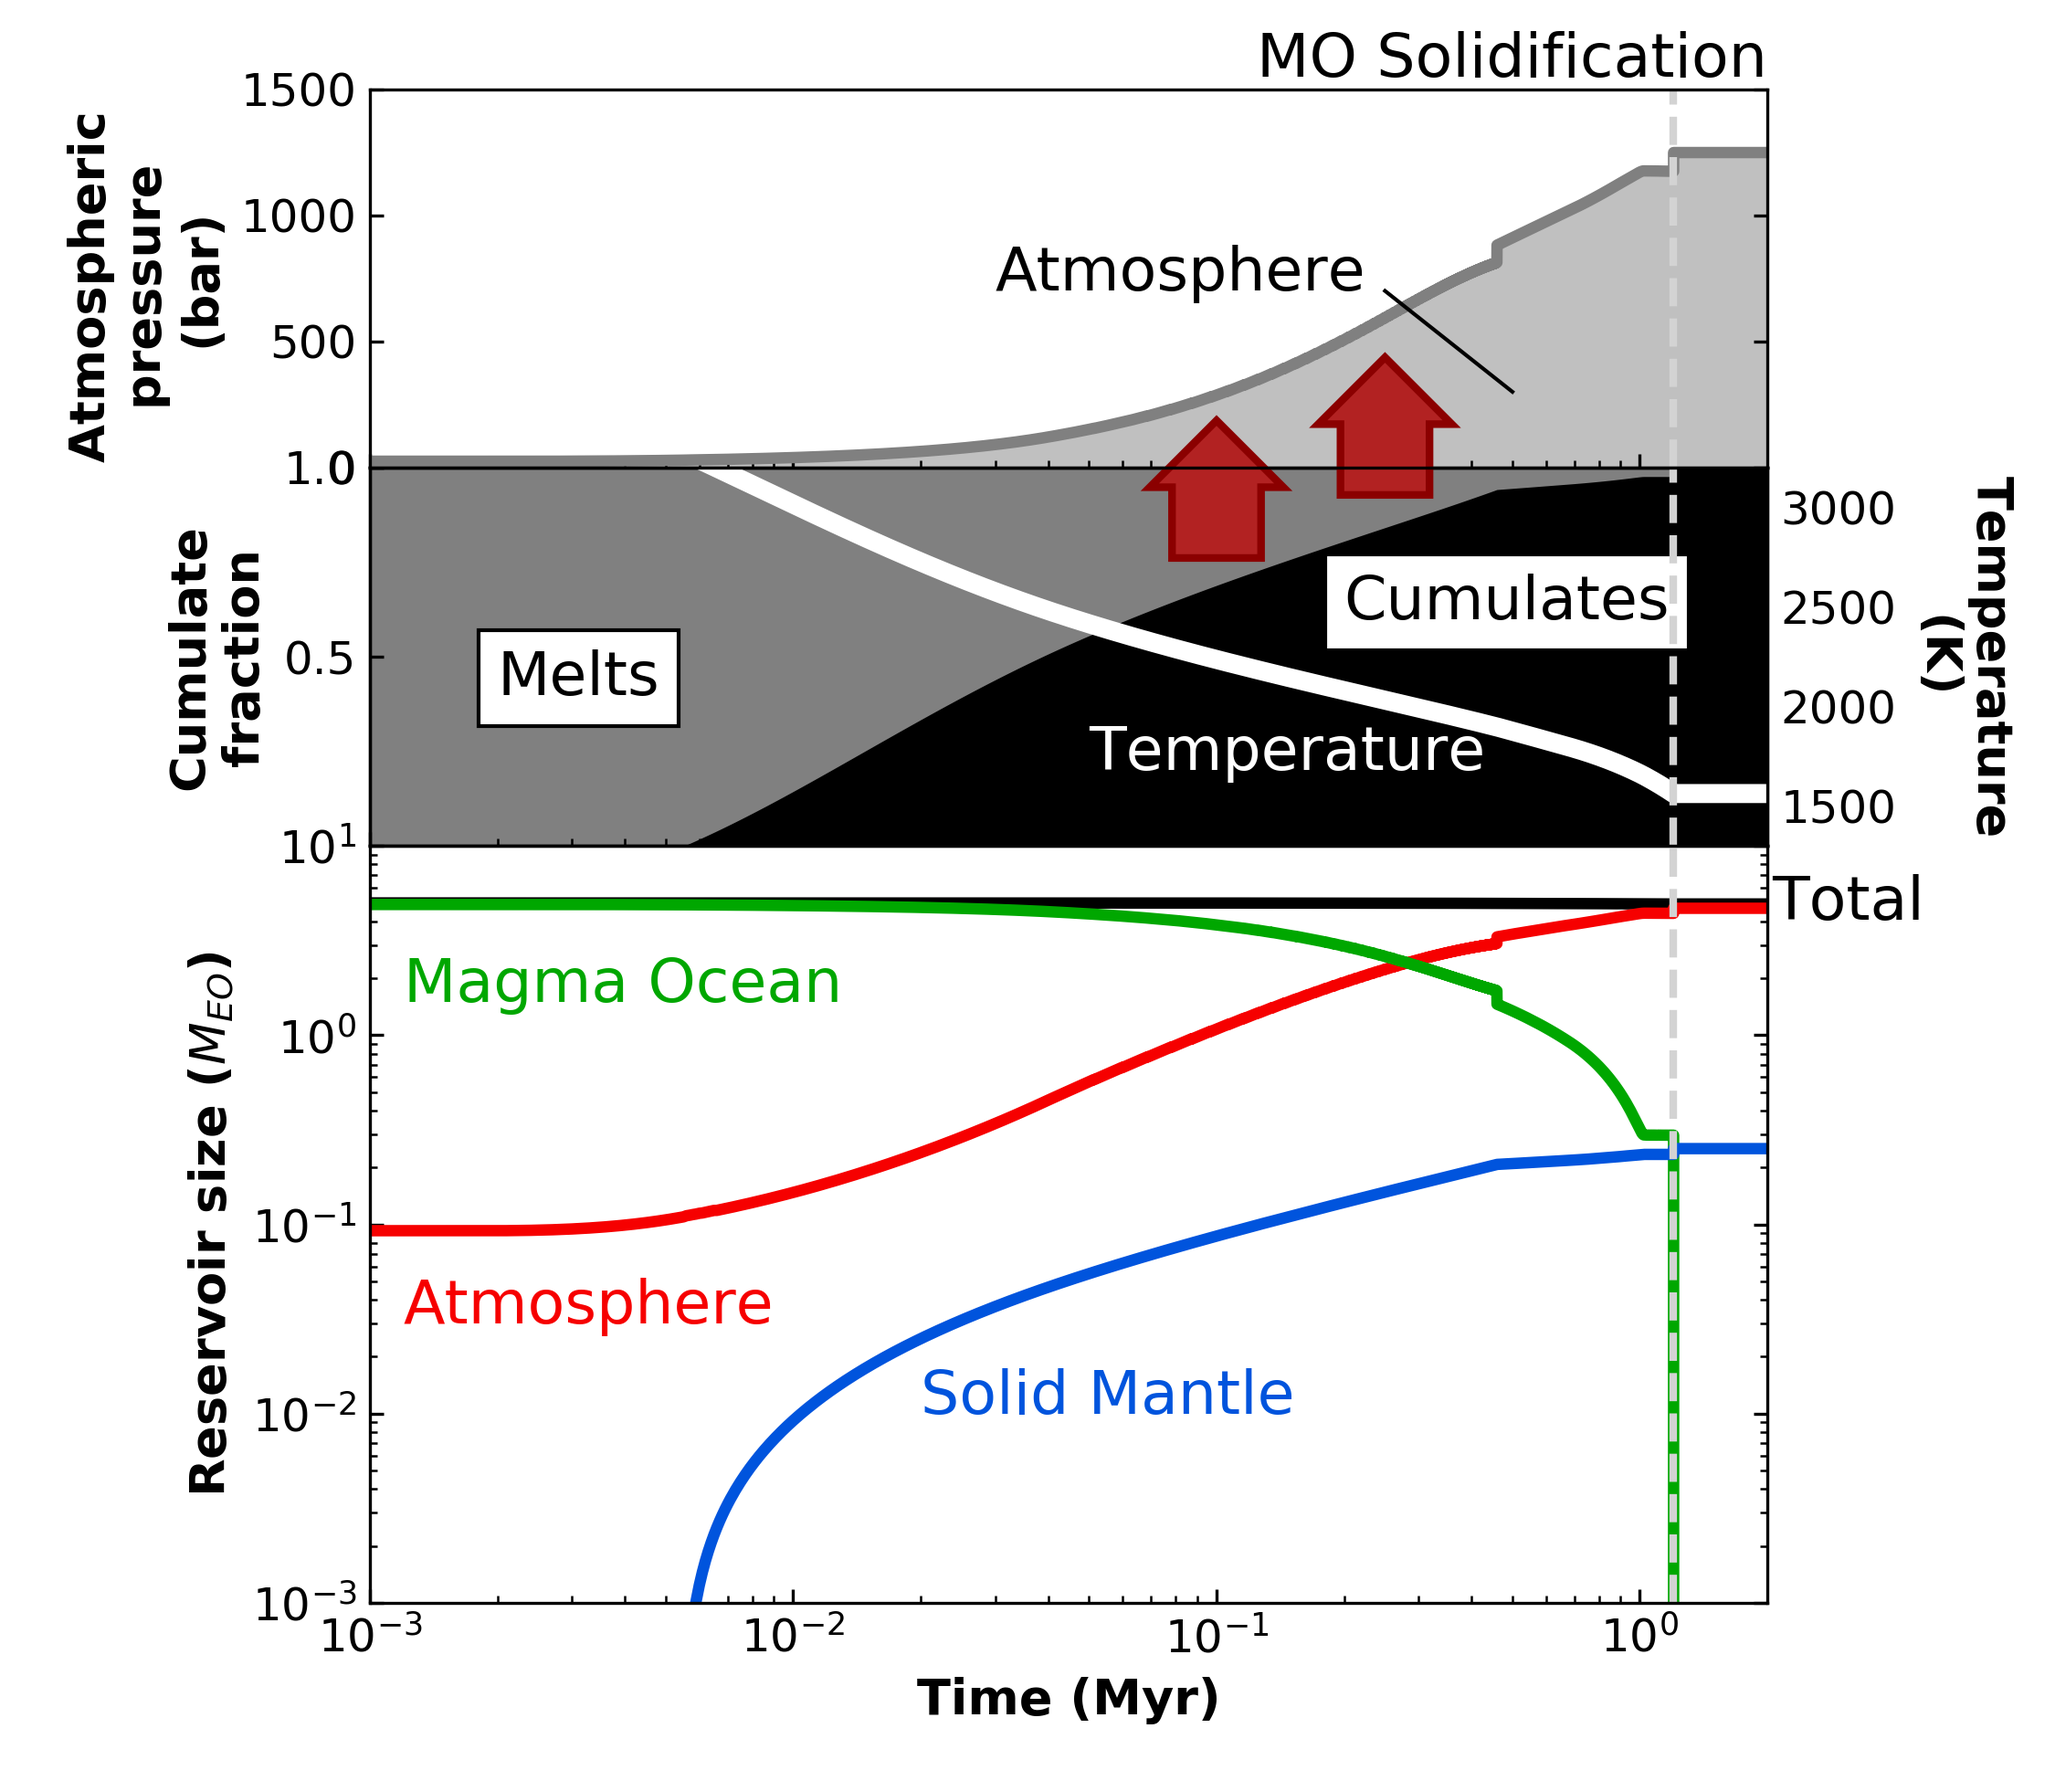
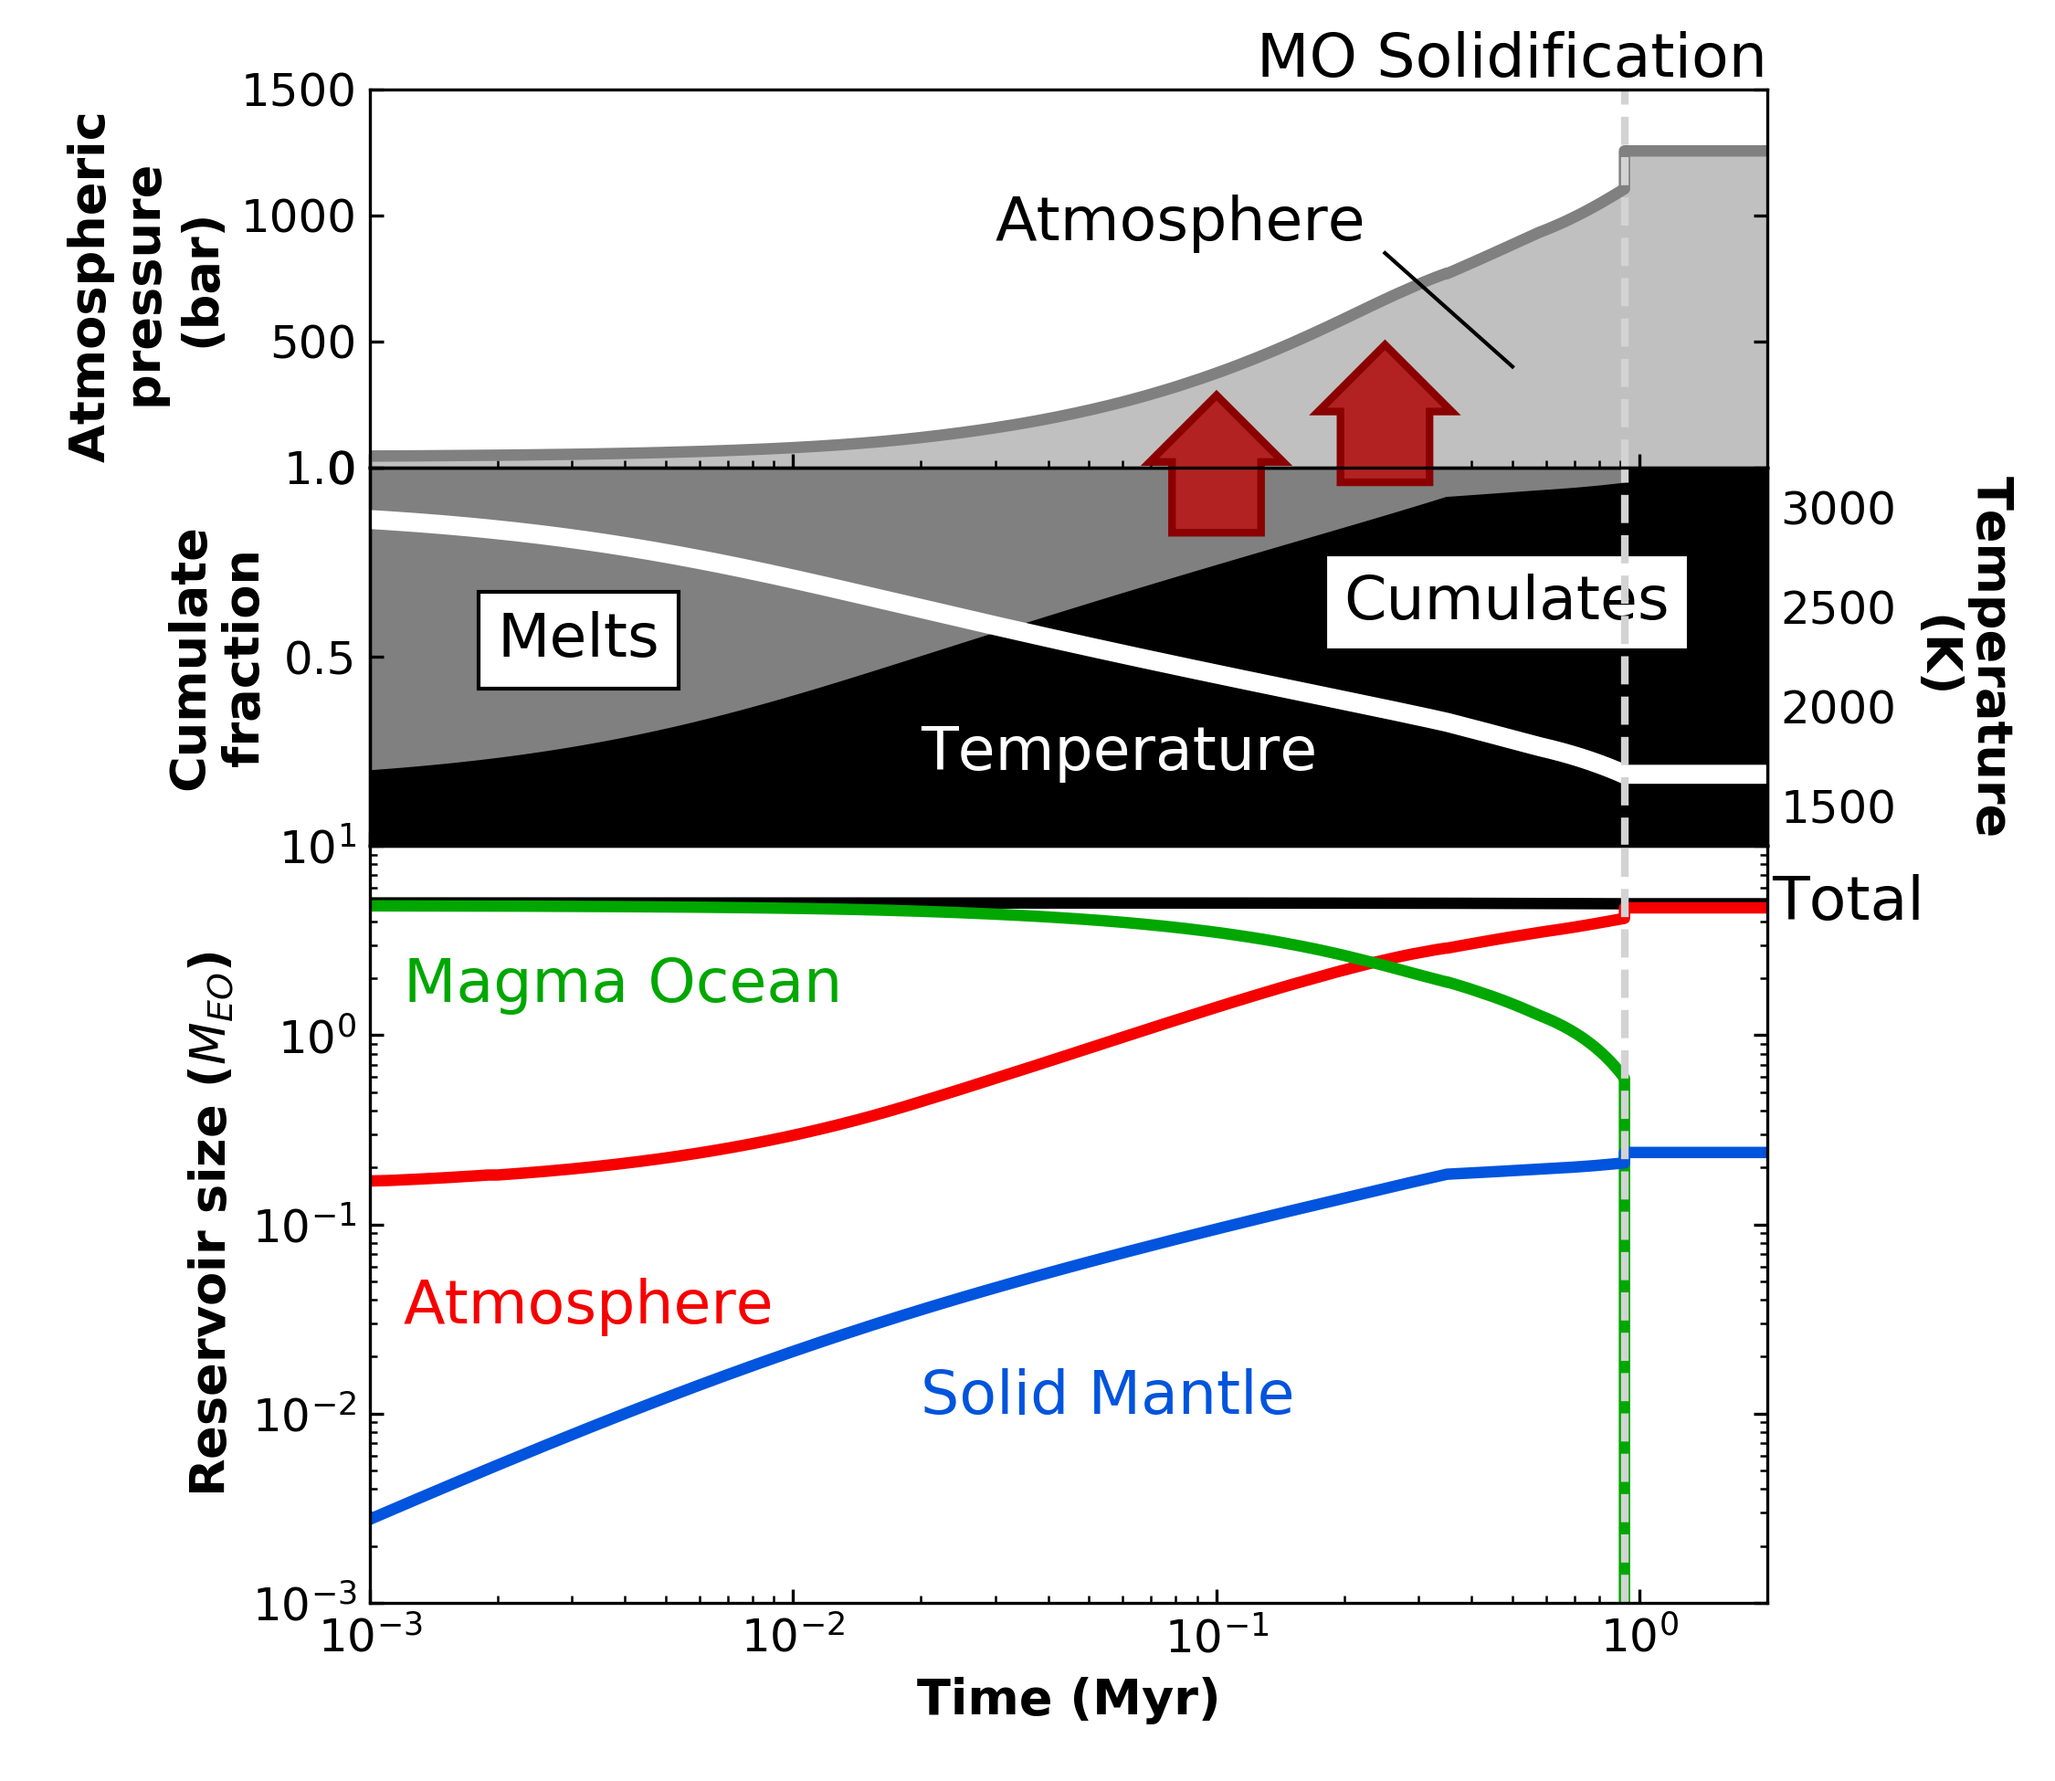
fixed bug for starting with a not fully molten mantle

diff --git a/src/magmoc.c b/src/magmoc.c
@@ -492,21 +492,30 @@ void ReadOptionsMagmOc(BODY *body,CONTROL *control,FILES *files,OPTIONS *options
 
 // Initilaization of variables
 void InitializeBodyMagmOc(BODY *body,CONTROL *control,UPDATE *update,int iBody,int iModule) {
+  double dSolidRadiusLocalLow,dSolidRadiusLocalHigh;
+
   // primary variables: HARD CODED INITIAL VALUES
   body[iBody].dPotTemp         = body[iBody].dSurfTemp; // initial potential temp = initial surface temp
-  body[iBody].dSolidRadius     = body[iBody].dRadius * RADCOREEARTH / REARTH; // initial solid. rad. = core radius
+  body[iBody].dCoreRadius      = body[iBody].dRadius * RADCOREEARTH / REARTH; // same relative core radius as Earth
   body[iBody].dWaterMassMOAtm  = body[iBody].dWaterMassAtm; // initial water mass in MO&Atm is equal to inital Water mass in atmosphere
   body[iBody].dWaterMassSol    = 0; // initial water mass in solid = 0
   body[iBody].dOxygenMassMOAtm = 0; // initial oxygen mass in MO&Atm = 0
   body[iBody].dOxygenMassSol   = 0; // initial oxygen mass in solid = 0
+  body[iBody].dGravAccelSurf   = BIGG * body[iBody].dMass / pow(body[iBody].dRadius,2);
+
+  dSolidRadiusLocalLow  = body[iBody].dRadius - ( (BLOWPRESSURE-body[iBody].dPotTemp)  / (body[iBody].dGravAccelSurf*(body[iBody].dPotTemp*THERMALEXPANCOEFF/SILICATEHEATCAP - ALOWPRESSURE*body[iBody].dManMeltDensity)));
+  dSolidRadiusLocalHigh = body[iBody].dRadius - ( (BHIGHPRESSURE-body[iBody].dPotTemp) / (body[iBody].dGravAccelSurf*(body[iBody].dPotTemp*THERMALEXPANCOEFF/SILICATEHEATCAP - AHIGHPRESSURE*body[iBody].dManMeltDensity)));
+  body[iBody].dSolidRadius = fmin(dSolidRadiusLocalLow,dSolidRadiusLocalHigh);
+
+  if (body[iBody].dSolidRadius < body[iBody].dCoreRadius) {
+    body[iBody].dSolidRadius = body[iBody].dCoreRadius;
+  }
 
   // other variables
   double dTransPressSol = 5.19964e9; // pressure at which to swith from low to high pressure treatment of solidus (Hirschmann, 2000) in Pa
-  body[iBody].dCoreRadius      = body[iBody].dRadius * RADCOREEARTH / REARTH; // same relative core radius as Earth
   body[iBody].dPrefactorA      = AHIGHPRESSURE;
   body[iBody].dPrefactorB      = BHIGHPRESSURE;
   body[iBody].dAlbedo          = ALBEDOWATERATMOS;
-  body[iBody].dGravAccelSurf   = BIGG * body[iBody].dMass / pow(body[iBody].dRadius,2);
   body[iBody].dFracFe2O3Man    = 0;
   body[iBody].dPressOxygenAtm  = 0;
   body[iBody].dTransDepthSol   = body[iBody].dRadius - pow((pow(body[iBody].dRadius,2) - 2*body[iBody].dRadius*dTransPressSol/(body[iBody].dManMeltDensity*body[iBody].dGravAccelSurf)),0.5);

diff --git a/examples/MagmOc_Earth/plot_magmoc_earth_hamano.py b/examples/MagmOc_Earth/plot_magmoc_earth_hamano.py
@@ -38,7 +38,7 @@ Melt_frac   = data[:,14] # atmospheric net flux (W/m^2)
 n_time = len(time)
 t_sol = time[n_time-1]
 
-time        = np.append(time,2e6)
+time        = np.append(time,4e6)
 Tpot        = np.append(Tpot,Tpot[n_time-1])
 Tsurf       = np.append(Tsurf,Tsurf[n_time-1])
 r_sol       = np.append(r_sol,r_sol[n_time-1])
@@ -94,7 +94,7 @@ ax1.set_ylabel('Temperature\n(K)',rotation=270,va='bottom')
 ax1.set_xscale('log')
 ax1.set_xlim([0.001,2])
 ax1.set_ylim([1300,3200])
-ax1.plot(time*10**-6, Tsurf, label='$T_{surf}$', color='white', linewidth=5)
+ax1.plot(time*10**-6, Tpot, label='$T_{surf}$', color='white', linewidth=5)
 ax1.axvline(x=t_sol*1e-6,linestyle='--', color='lightgray',linewidth=2)
 
 ax11.fill_between(time*10**-6, V_sol, color=cmap(0))
@@ -136,18 +136,18 @@ ax3.text(0.0012, 0.03,'Atmosphere',   color=cmap(220), fontsize='16')
 ax3.text(2.05, 5,'Total',  va='center', color=cmap(0), fontsize='16')
 
 ax4.text(2, 1550,'MO Solidification', ha='right',  color=cmap(0), fontsize='16')
-ax4.text(0.03, 700,'Atmosphere',   color=cmap(0), fontsize='16')
-ax4.plot([0.25,0.5],[700,300],linewidth=1,color=cmap(0))
+ax4.text(0.03, 900,'Atmosphere',   color=cmap(0), fontsize='16')
+ax4.plot([0.25,0.5],[850,400],linewidth=1,color=cmap(0))
 
-ax11.text(0.05, 0.2,'Temperature',   color='white', fontsize='16')
-ax11.text(0.002, 0.4, 'Melts', fontsize='16', bbox={'facecolor':'white', 'pad':5})
+ax11.text(0.02, 0.2,'Temperature',   color='white', fontsize='16')
+ax11.text(0.002, 0.5, 'Melts', fontsize='16', bbox={'facecolor':'white', 'pad':5})
 ax11.text(0.2, 0.6, 'Cumulates', fontsize='16', bbox={'facecolor':'white', 'pad':5})
 
 bbox_props = dict(boxstyle="rarrow", fc="firebrick", ec="darkred", lw=2)
-t = ax4.text(0.25, 100, "ou", ha="center", va="center", rotation=90, color='firebrick',
+t = ax4.text(0.25, 150, "ou", ha="center", va="center", rotation=90, color='firebrick',
             size=15,
             bbox=bbox_props)
-t2 = ax4.text(0.1, -150, "ou", ha="center", va="center", rotation=90, color='firebrick',
+t2 = ax4.text(0.1, -50, "ou", ha="center", va="center", rotation=90, color='firebrick',
             size=15,
             bbox=bbox_props)
 
